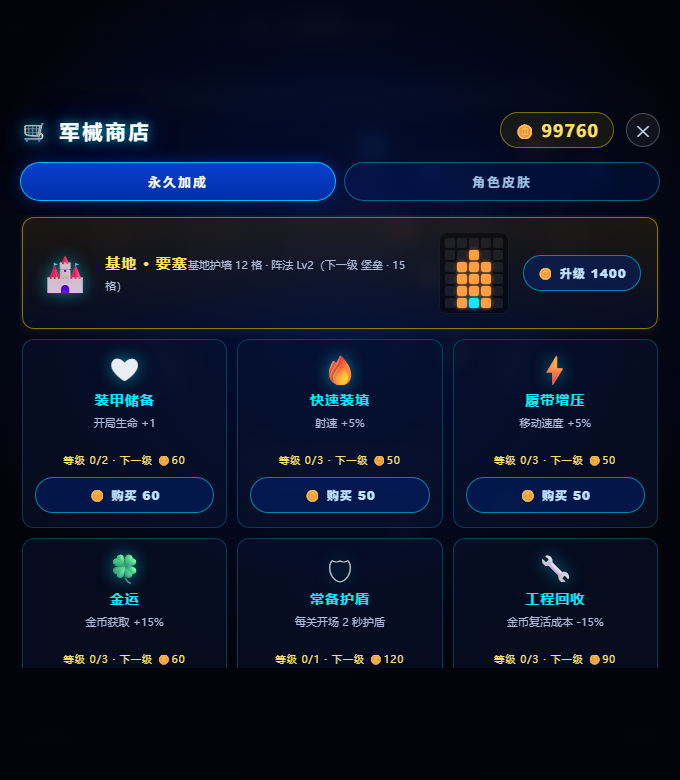
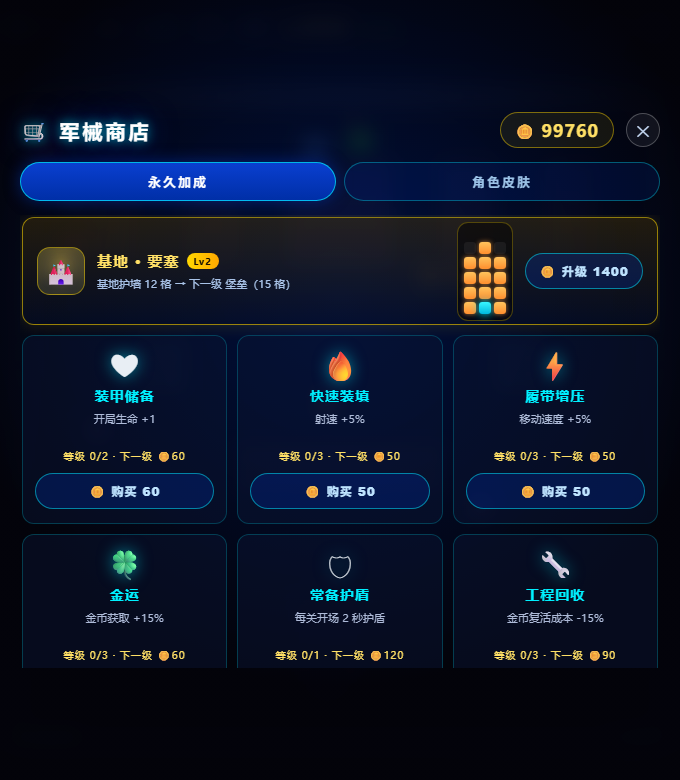
v0.1.17: 基地升级卡视觉重构（紧凑塔状阵法预览 + 图标块 + 等级徽章 + 分层布局）
- 阵法预览改紧凑塔状：只渲染实际 3 列×动态行，Lv0 仅 3×3，亮格 7/30→7/9
- 基地图标换 48x48 金色渐变方块；名称行加 Lv 徽章；描述拆分两行
- 卡片高度恒定 108px，元素垂直居中（误差≤1px）；四等级塔状逐级增高
- 回归套件 52/52 全过；截图 base_shop_shot/prism_shot 重新生成
- sw 缓存 v0116→v0117，游戏内版本号 V1.16→V1.17

diff --git a/index.html b/index.html
@@ -545,22 +545,37 @@
 
   /* ---------- 基地升级卡（商店 bonus tab 顶部） ---------- */
   .shopItem.baseCard {
-    grid-column: 1 / -1; flex-direction: row; align-items: center; gap: 14px;
-    padding: 14px 16px; border-color: rgba(255, 215, 0, 0.5);
-    background: linear-gradient(180deg, rgba(60, 45, 8, 0.45), rgba(10, 20, 50, 0.5));
-    box-shadow: 0 0 16px rgba(255, 215, 0, 0.12);
+    grid-column: 1 / -1; flex-direction: row; align-items: center; gap: 12px;
+    min-height: 108px; padding: 12px 14px; border-color: rgba(255, 215, 0, 0.55);
+    background: linear-gradient(180deg, rgba(66, 50, 10, 0.5), rgba(8, 16, 40, 0.55));
+    box-shadow: 0 0 18px rgba(255, 215, 0, 0.14);
   }
-  .shopItem.baseCard .siIcon { font-size: 38px; }
-  .shopItem.baseCard .baseInfo { flex: 1; text-align: left; }
-  .shopItem.baseCard .siName { font-size: 15px; color: #ffe066; }
-  .shopItem.baseCard .siDesc { min-height: 0; text-align: left; margin-top: 2px; }
+  .shopItem.baseCard .baseIcon {
+    width: 48px; height: 48px; flex: none; border-radius: 13px;
+    display: flex; align-items: center; justify-content: center; font-size: 25px;
+    background: radial-gradient(circle at 50% 32%, rgba(255, 222, 96, 0.4), rgba(16, 26, 54, 0.65));
+    border: 1px solid rgba(255, 215, 0, 0.5);
+    box-shadow: inset 0 0 12px rgba(255, 215, 0, 0.16);
+  }
+  .shopItem.baseCard .baseInfo { flex: 1; text-align: left; min-width: 0; }
+  .shopItem.baseCard .baseNameRow { display: flex; align-items: center; gap: 7px; }
+  .shopItem.baseCard .siName { font-size: 15px; color: #ffe066; font-weight: 800; }
+  .shopItem.baseCard .baseLv {
+    font-size: 9px; font-weight: 900; letter-spacing: 1px; color: #171000;
+    background: linear-gradient(90deg, #ffd700, #ffa800); padding: 2px 7px; border-radius: 999px;
+  }
+  .shopItem.baseCard .siDesc { margin-top: 4px; font-size: 11px; color: #a9c3e8; line-height: 1.4; }
   .shopItem.baseCard .siBtn { width: auto; min-width: 118px; margin-top: 0; flex: none; }
-  .baseWallPrev { display: flex; flex-direction: column; gap: 2px; padding: 5px; border-radius: 8px; background: rgba(0, 0, 0, 0.4); border: 1px solid rgba(255, 255, 255, 0.06); }
-  .baseWallPrev .bwRow { display: flex; gap: 2px; }
-  .baseWallPrev .bw { width: 10px; height: 10px; border-radius: 2px; }
-  .baseWallPrev .bw.on  { background: #ff9f43; box-shadow: 0 0 4px rgba(255, 159, 67, 0.8); }
-  .baseWallPrev .bw.core { background: #00f0ff; box-shadow: 0 0 5px rgba(0, 240, 255, 0.9); }
-  .baseWallPrev .bw.off { background: rgba(255, 255, 255, 0.08); }
+  .baseWallPrev {
+    display: flex; flex-direction: column; justify-content: flex-end; align-items: center;
+    gap: 3px; padding: 6px; flex: none; min-height: 99px;
+    border-radius: 11px; background: rgba(0, 0, 0, 0.45); border: 1px solid rgba(255, 215, 0, 0.28);
+  }
+  .baseWallPrev .bwRow { display: flex; gap: 3px; }
+  .baseWallPrev .bw { width: 12px; height: 12px; border-radius: 3px; }
+  .baseWallPrev .bw.on  { background: linear-gradient(180deg, #ffc35c, #ff8f2f); box-shadow: 0 0 5px rgba(255, 159, 67, 0.7); }
+  .baseWallPrev .bw.core { background: linear-gradient(180deg, #38f6ff, #00b8de); box-shadow: 0 0 8px rgba(0, 240, 255, 0.95); }
+  .baseWallPrev .bw.off { background: rgba(255, 255, 255, 0.06); }
 
   /* ---------- 战绩图弹层 ---------- */
   #reportBox {
@@ -704,7 +719,7 @@
 
   <div id="toast"></div>
   <div id="wxtip">点右上角 <b>···</b> → 发送给朋友</div>
-  <div id="mark">DESIGNED BY QIAN · V1.16</div>
+  <div id="mark">DESIGNED BY QIAN · V1.17</div>
 
   <div id="upgradeBox">
     <div class="upTitle">关卡完成 · 强化三选一</div>
@@ -3498,12 +3513,13 @@
     const next = maxed ? null : BASE_LEVELS[lv + 1];
     const item = document.createElement('div');
     item.className = 'shopItem baseCard';
+    // 阵法预览：只渲染实际需要的 3 列（dx -1..1）× 动态行，核心在底部中央，塔状向上生长
     const cells = def.walls;
-    const maxDy = 5, maxDx = 2; // 预览网格范围（含基地中心）
+    const minDy = Math.min(0, ...cells.map(c => c[0]));
     let prev = '<div class="baseWallPrev">';
-    for (let dy = -maxDy; dy <= 0; dy++) {
+    for (let dy = minDy; dy <= 0; dy++) {
       prev += '<div class="bwRow">';
-      for (let dx = -maxDx; dx <= maxDx; dx++) {
+      for (let dx = -1; dx <= 1; dx++) {
         const on = cells.some(([a, b]) => a === dy && b === dx);
         const core = dy === 0 && dx === 0;
         prev += '<div class="bw ' + (core ? 'core' : (on ? 'on' : 'off')) + '"></div>';
@@ -3511,10 +3527,14 @@
       prev += '</div>';
     }
     prev += '</div>';
-    item.innerHTML = '<span class="siIcon">🏰</span>' +
+    const lvTxt = 'Lv' + lv + (maxed ? '·MAX' : '');
+    const desc = maxed
+      ? ('基地护墙 ' + def.walls.length + ' 格 · 已满级，最坚固的堡垒')
+      : ('基地护墙 ' + def.walls.length + ' 格 → 下一级 ' + next.name + '（' + next.walls.length + ' 格）');
+    item.innerHTML = '<span class="baseIcon">🏰</span>' +
       '<div class="baseInfo">' +
-        '<span class="siName">基地 · ' + def.name + '</span>' +
-        '<span class="siDesc">基地护墙 ' + def.walls.length + ' 格 · 阵法 Lv' + lv + '（' + (maxed ? '已满级' : '下一级 ' + next.name + ' · ' + next.walls.length + ' 格') + '）</span>' +
+        '<div class="baseNameRow"><span class="siName">基地 · ' + def.name + '</span><span class="baseLv">' + lvTxt + '</span></div>' +
+        '<span class="siDesc">' + desc + '</span>' +
       '</div>' + prev +
       '<button class="siBtn' + (maxed ? ' owned disabled' : '') + '">' + (maxed ? '已满级' : '🪙 升级 ' + next.price) + '</button>';
     const btn = item.querySelector('.siBtn');

diff --git a/sw.js b/sw.js
@@ -1,6 +1,6 @@
 /* QIAN 坦克大战 · Service Worker
    network-first 降级 cache：有网用最新，断网用缓存，实现离线可玩 */
-const CACHE = 'tank-battle-v0116';
+const CACHE = 'tank-battle-v0117';
 const ASSETS = [
   './',
   './index.html',

diff --git a/RELEASE_NOTES.md b/RELEASE_NOTES.md
@@ -1,3 +1,18 @@
+# v0.1.17 · 基地升级卡视觉重构（美观整齐）
+
+> 上次修复后阵法预览虽成网格，但固定 30 格里只亮 7 格、稀疏零散，图标/文字/预览/按钮全挤一条线。已重构为**紧凑塔状**预览 + 图标块 + 等级徽章 + 清爽分层布局。
+
+## 🎨 视觉重构
+
+- **阵法预览改紧凑塔状**：不再固定渲染 6×5 空网格，只渲染实际需要的 3 列 × 动态行（Lv0 仅 3×3，核心固定底部中央，护墙向两侧与上方生长成塔），亮格占比从 7/30 提升到 7/9，格子更大更清晰
+- **基地图标**：文字换成 48×48 金色渐变圆角方块（🏰），独立占位
+- **等级徽章**：名称行加金色胶囊 Lv 徽章（Lv0…Lv3·MAX），层级一目了然
+- **描述拆分**：护墙格数 + 下一级预览拆成清爽两行，不再挤一行；卡片高度恒定 108px 不随等级跳动，所有元素垂直居中（误差 ≤1px）
+- 四等级阵法塔状逐级增高：Lv0=3 行 → Lv1=4 行 → Lv2=5 行 → Lv3=6 行，与 `BASE_LEVELS` 完全一致
+- 回归套件 52/52 全过；截图 `base_shop_shot.png` / `prism_shot.png` 重新生成
+
+---
+
 # v0.1.16 · 修复基地升级卡阵法预览显示
 
 > 基地升级卡的护墙阵法预览原来被 CSS 排成一行（`display:flex` 未换行），看不到阵法网格。已改为 6×5 真实网格。
